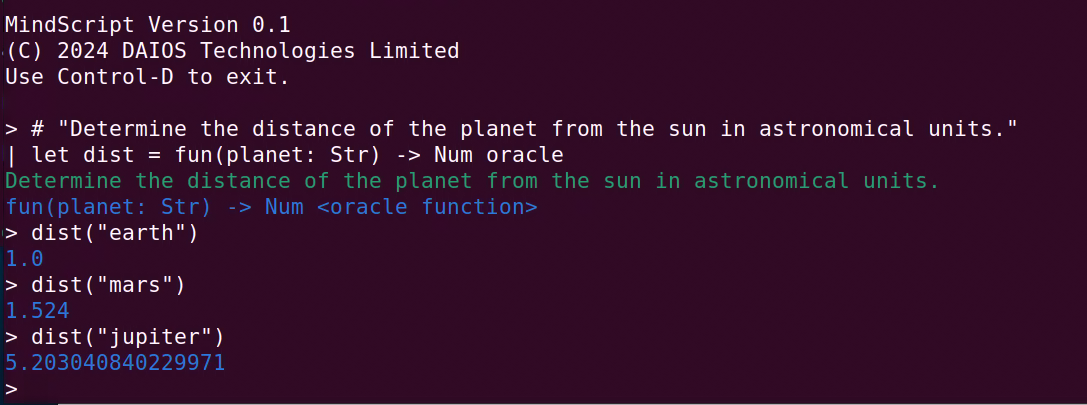
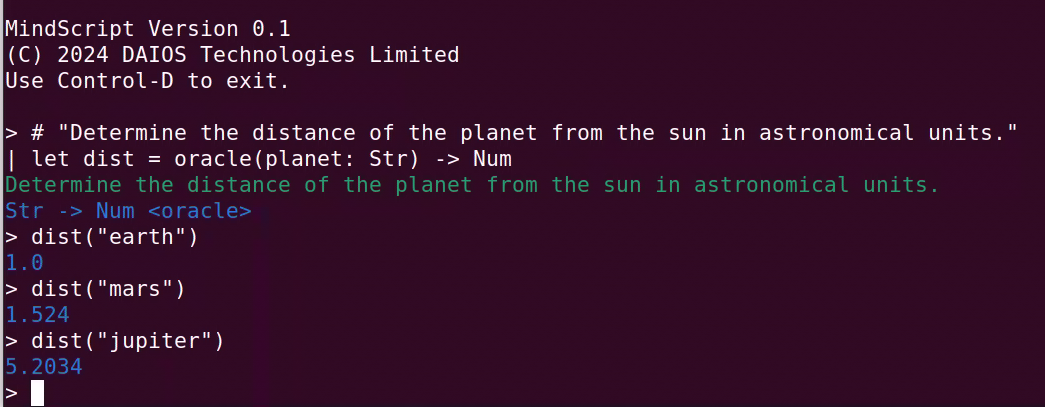
New oracle syntax with examples

Changed region(s): [[0.0, 0.2667, 1.0, 1.0], [0.0, 0.0, 0.4593, 0.237]]

diff --git a/ms/oracle.py b/ms/oracle.py
@@ -16,7 +16,7 @@ api_url = "http://localhost:8080/completion"
 headers = {"Content-Type": "application/json"}
 
 
-TEMPLATE = """
+HEADER = """
 You are a helpful assistant, and your task is to provide answers
 respecting the formatting instructions.
 
@@ -29,9 +29,28 @@ OUTPUT SCHEMA (JSON)
 ====================
 
 {output_schema}
+"""
 
-TASK DESCRIPTION
-================
+EXAMPLE = """
+TASK
+====
+
+{task}
+
+INPUT
+=====
+
+{input}
+
+OUTPUT
+======
+
+{output}
+"""
+
+QUERY = """
+TASK
+====
 
 {task}
 
@@ -48,39 +67,86 @@ OUTPUT
 
 class MOracleFunction(MFunction):
 
-    def __init__(self, ip: 'Interpreter', definition: ast.Function):  # type: ignore
+    def __init__(self, ip: 'Interpreter', definition: ast.Function, examples: MValue):  # type: ignore
         super().__init__(ip, definition)
+
         schema_printer = JSONSchema()
         bnf_printer = BNFFormatter()
+
+        # Build input schemas.
         in_annotation = self.definition.types.annotation
-        in_type_map = {param.literal: value.definition for param, value in zip(self.params, self.intypes)}
+        in_type_map = {param.literal: value.definition for param,
+                       value in zip(self.params, self.intypes)}
         in_required = {param.literal: True for param in self.params}
-        in_types = ast.TypeMap(annotation=in_annotation, map=in_type_map, required=in_required)
+        in_types = ast.TypeMap(annotation=in_annotation,
+                               map=in_type_map, required=in_required)
         self.input_schema = schema_printer.print_schema(MType(ip, in_types))
 
+        # Build output schema and BNF grammar.
         out_type = self.outtype.definition
         self.output_schema = schema_printer.print_schema(MType(ip, out_type))
         self.output_schema_obj = bnf_printer.format(MType(ip, out_type))
         # self.output_schema_obj = self.output_schema #json.loads(self.output_schema)
 
+        self.examples = self.validate_examples(examples)
+
     def prepare_input(self, args: List[MObject]):
         data = {}
         for param, arg in zip(self.params, args):
             data[param.literal] = arg
-        return self.interpreter.printer.print(MValue(data, None))
+        return self.interpreter.print(MValue(data, None))
+
+    def prepare_task(self):
+        if self.definition.types.annotation:
+            return self.definition.types.annotation
+        return "Determine the output from the input."
+
+    def prepare_examples(self):
+        task = self.prepare_task()
+        body = ""
+        for example in self.examples.value:
+            input_example = self.prepare_input(example.value[:-1])
+            output_example = self.interpreter.print(example.value[-1])
+            body += EXAMPLE.format(task=task, input=input_example, output=output_example)
+        return body
+
+    def validate_examples(self, examples: MValue):
+        if type(examples) != MValue or type(examples.value) != list:
+            self.error("The examples must be of type Array[Array].")
+
+        length = len(self.params) + 1
+        for example in examples.value:
+            if type(example.value) != list or len(example.value) != length:
+                self.error(f"Each example must be an array of length {length}, "
+                           f"but found {self.interpreter.print(example)}.")
+
+            for n in range(len(self.params)):
+                typestr = self.interpreter.print(self.intypes[n])
+                valuestr = self.interpreter.print(example.value[n])
+                if not self.interpreter.checktype(example.value[n], self.intypes[n]):
+                    self.error(f"Expected value of type {typestr} but found: {valuestr}.")
+
+            if not self.interpreter.checktype(example.value[-1], self.outtype):
+                typestr = self.interpreter.print(self.outtype)
+                valuestr = self.interpreter.print(example.value[-1])
+                self.error(f"Expected output value of type {typestr} but found: {valuestr}.")
+        return examples
 
     def func(self, args: List[MObject]):
-        task = self.definition.types.annotation
+        task = self.prepare_task()
         input_schema = self.input_schema
         output_schema = self.output_schema
-        input = self.prepare_input(args)
-        prompt = TEMPLATE.format(
-            task=task, input=input, input_schema=input_schema, output_schema=output_schema)
+        input_example = self.prepare_input(args)
+
+        prompt = HEADER.format(input_schema=input_schema, output_schema=output_schema)
+        prompt += self.prepare_examples()
+        prompt += QUERY.format(task=task, input=input_example)
+
         # print(f"oracle: prompt = {prompt}")
         with requests.post(
             api_url, headers=headers,
             json={
-                "prompt": prompt, 
+                "prompt": prompt,
                 # "json_schema": self.output_schema_obj,
                 "grammar": self.output_schema_obj,
                 "n_predit": max_tokens,
@@ -102,4 +168,3 @@ class MOracleFunction(MFunction):
     def __str__(self):
         # print(f"UserFunction.str: definition = {self.definition}")
         return "<oracle>"
-

diff --git a/ms/parser.py b/ms/parser.py
@@ -25,7 +25,7 @@ from ms.lexer import Lexer
 #     call        ::= primary ( "~(" expression* ")" | "." ID | "~[" expression "]" )*
 #
 #     primary     ::= INTEGER | NUMBER | STRING | BOOLEAN | NULL | array | map |
-#                     type | function | target | ( "~(" | "(" ) expression ")" |
+#                     type | function | oracle | target | ( "~(" | "(" ) expression ")" |
 #                     block | conditional | for
 #     array       ::= "[" (expression ("," expression)*)? "]"
 #     map         ::= "{" (item ("," item)*)? "}"
@@ -41,7 +41,9 @@ from ms.lexer import Lexer
 #     target      ::= ID | declaration
 #     declaration ::= "let" ID
 #     function    ::= "fun" "~(" parameter* ")" 
-#                       ("->" type_expr)? ("oracle" | block)
+#                       ("->" type_expr)? block
+#     oracle      ::= "oracle" "~(" parameter* ")"
+#                       ("->" type_expr)? ("from" array)?
 #     parameter   ::= ("#" STRING)? ID (":" type_expr)?
 #
 #     type        ::= "type" type_expr
@@ -317,7 +319,7 @@ class Parser:
             return self.parse_conditional()
         if self.check(TokenType.FOR):
             return self.parse_for()
-        if self.check(TokenType.FUNCTION):
+        if self.check(TokenType.FUNCTION) or self.check(TokenType.ORACLE):
             return self.parse_function()
         if self.match([TokenType.LROUND, TokenType.CLROUND]):
             expr = self.parse_expression()
@@ -444,7 +446,7 @@ class Parser:
             return ast.For(operator=operator, target=target, iterator=iterator, expr=expr)
 
     def parse_function(self):
-        if self.match([TokenType.FUNCTION]):
+        if self.match([TokenType.FUNCTION, TokenType.ORACLE]):
             operator = self.previous()
             self.consume(TokenType.CLROUND,
                          "Expected '(' after 'fun' keyword.")
@@ -477,11 +479,12 @@ class Parser:
                 types = ast.TypeBinary(operator=operator, left=ptype, right=types)
 
             expr = None
-            if self.match([TokenType.ORACLE]):
-                oracletoken = self.previous()
-                expr = ast.Terminal(token=oracletoken)
-            else:
+            if operator.ttype == TokenType.FUNCTION:
                 expr = self.parse_block()
+            elif self.match([TokenType.FROM]):
+                expr = self.parse_array()
+            else:
+                expr = ast.Array(array=[])
             return ast.Function(operator=operator, parameters=params, types=types, expr=expr)
 
     def parse_parameter(self):

diff --git a/ms/interpreter.py b/ms/interpreter.py
@@ -76,8 +76,6 @@ class Interpreter:
             return val
         try:
             val = tree.accept(self)
-        except ast.Return as e:
-            return e.expr
         except (ast.Break, ast.Continue) as e:
             self.error(e.operator, f"Unexpected control flow expression '{e.operator.literal}'.")
         except ast.RuntimeError as e:
@@ -100,10 +98,16 @@ class Interpreter:
     def define(self, name: str, value: MObject):
         self.env.define(name, value)
 
+    def print(self, value: MObject):
+        return self.printer.print(value)
+
     def error(self, token: ast.Token, msg):
         self.parser.lexer.report_error(
             token.line, token.col, "RUNTIME ERROR", msg)
         raise ast.RuntimeError(msg)
+
+    def exit(self):
+        raise ast.Exit()
 
     def program(self, node: ast.Expr):
         value = None
@@ -501,16 +505,17 @@ class Interpreter:
 
     def function(self, node: ast.Expr):
         node.types = node.types.accept(self)
-        if type(node.expr) == ast.Terminal and node.expr.token.ttype == ast.TokenType.ORACLE:
-            oracle_callable = MOracleFunction(ip=self, definition=node)
-            return oracle_callable
         try:
-            user_callable = MUserFunction(ip=self, definition=node)
+            if node.operator.ttype == ast.TokenType.FUNCTION:
+                callable = MUserFunction(ip=self, definition=node)
+            else:
+                examples = node.expr.accept(self)
+                callable = MOracleFunction(ip=self, definition=node, examples=examples)
             # Create a new environment to protect the closure environment.
             self.env = Environment(enclosing=self.env)
         except Exception as e:
-            print(e)
-        return user_callable
+            return MValue(None, None)
+        return callable
 
     def type_definition(self, node: ast.Expr):
         operator = node.operator

diff --git a/ms/native.py b/ms/native.py
@@ -50,11 +50,10 @@ class Import(MNativeFunction):
 class Str(MNativeFunction):
     def __init__(self, ip: Interpreter):
         super().__init__(ip, "fun(value: Any) -> Str")
-        self.ip = ip
 
     def func(self, args: List[MObject]):
         arg = args[0]
-        repr = self.ip.printer.print(arg)
+        repr = self.interpreter.print(arg)
         return MValue(repr, None)
 
 
@@ -68,9 +67,19 @@ class Print(MNativeFunction):
         if type(arg) == MValue and type(arg.value) == str:
             print(arg.value)
         else:
-            repr = self.interpreter.printer.print(arg)
+            repr = self.interpreter.print(arg)
             print(repr)
         return arg
+
+
+class Exit(MNativeFunction):
+    def __init__(self, ip: Interpreter):
+        definition = "fun(_: Null) -> Null"
+        super().__init__(ip, definition)
+
+    def func(self, args: List[MObject]):
+        self.interpreter.exit()
+
 
 
 class Dump(MNativeFunction):
@@ -84,7 +93,7 @@ class Dump(MNativeFunction):
         print("=== STATE DUMP START")
         while env is not None:
             print(pre)
-            txt = self.interpreter.printer.print(MValue(env.vars, None))
+            txt = self.interpreter.print(MValue(env.vars, None))
             print(txt)
             pre = "==" + pre
             env = env.enclosing
@@ -186,6 +195,7 @@ def interpreter(interactive=False):
     ip.define("assert", Assert(ip=ip))
     ip.define("bnf", BNF(ip=ip))
     ip.define("error", Error(ip=ip))
+    ip.define("exit", Exit(ip=ip))
 
     # Clean the lexer's code buffer.
     ip.parser.lexer.reset()

diff --git a/ms/objects.py b/ms/objects.py
@@ -16,6 +16,7 @@ class MObject():
         pass
 
 
+
 class MValue(MObject):
     def __init__(self, value, annotation=None):
         self._value = value
@@ -36,6 +37,12 @@ class MValue(MObject):
     @annotation.setter
     def annotation(self, val):
         self._annotation = val
+
+    def __repr__(self):
+        if self.annotation is None:
+            return str(self.value)
+        return "# '{self.annotation}' " + self.value
+
 
 
 # Types.
@@ -151,7 +158,7 @@ class MFunction(MObject):
         return funcobj
 
     def error(self, msg: str):
-        self.interpreter.error(self._operator, msg)
+        self.interpreter.error(self.definition.operator, msg)
 
     @abstractmethod
     def func(self, args: List[MObject]) -> MObject:
@@ -168,8 +175,6 @@ class MFunction(MObject):
 
 class MPartialFunction(MFunction):
 
-    # type: ignore
-    # type: ignore
     def __init__(self, ip: 'Interpreter', definition: Union[ast.Function, str]): # type: ignore
         if type(definition) == str:
             definition = ip.parser.parse(
@@ -183,8 +188,6 @@ class MPartialFunction(MFunction):
 
 class MNativeFunction(MFunction):
 
-    # type: ignore
-    # type: ignore
     def __init__(self, ip: 'Interpreter', definition: Union[ast.Function, str]): # type: ignore
         if type(definition) == str:
             definition = ip.parser.parse(

diff --git a/mindscript.py b/mindscript.py
@@ -2,7 +2,7 @@ import re
 import sys
 import ms
 import readline
-from ms.ast import IncompleteExpression, Return
+from ms.ast import IncompleteExpression, Return, Exit
 import traceback
 
 GREEN = "\033[32m"
@@ -51,7 +51,7 @@ def repl():
             lines = ""
         except IncompleteExpression:
             prompt = "| "
-        except Return:
+        except (Return, Exit):
             print("\nExiting...")
             exit(0)
         except EOFError:

diff --git a/ms/ast.py b/ms/ast.py
@@ -18,6 +18,7 @@ TokenType = Enum(
         "ARRAY",
         "FUNCTION",
         "ORACLE",
+        "FROM",
         "TYPECONS",
         "TYPETYPE",
         "TYPE",
@@ -365,5 +366,8 @@ class Continue(Control):
         self.expr = expr
 
 
+class Exit(Control):
+    def __init__(self):
+        pass
 
 

diff --git a/ms/printer.py b/ms/printer.py
@@ -290,4 +290,4 @@ class Printer():
             txt = value.accept(self)
         elif isinstance(value, MObject):
             txt = self.print_value(value)
-        return self.shorten_if_possible(txt)   
+        return self.shorten_if_possible(txt)

diff --git a/ms/lexer.py b/ms/lexer.py
@@ -23,6 +23,7 @@ Keywords = {
     "oracle": TokenType.ORACLE,
     "for": TokenType.FOR,
     "in": TokenType.IN,
+    "from": TokenType.FROM,
     "type": TokenType.TYPECONS,
     "Type": TokenType.TYPE,
     "Null": TokenType.TYPE,
